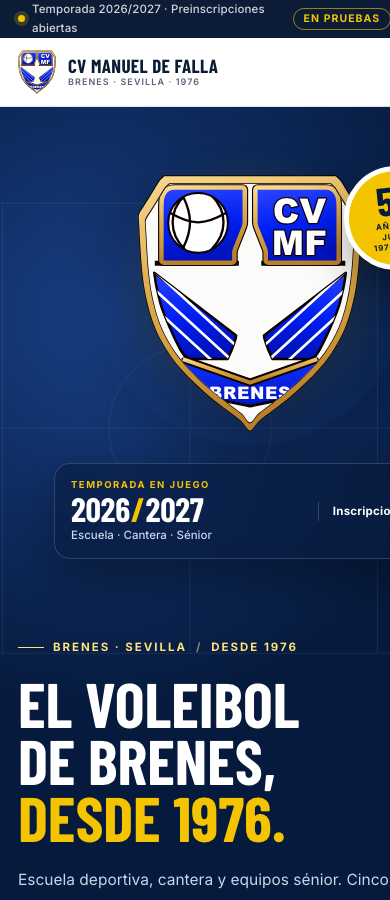
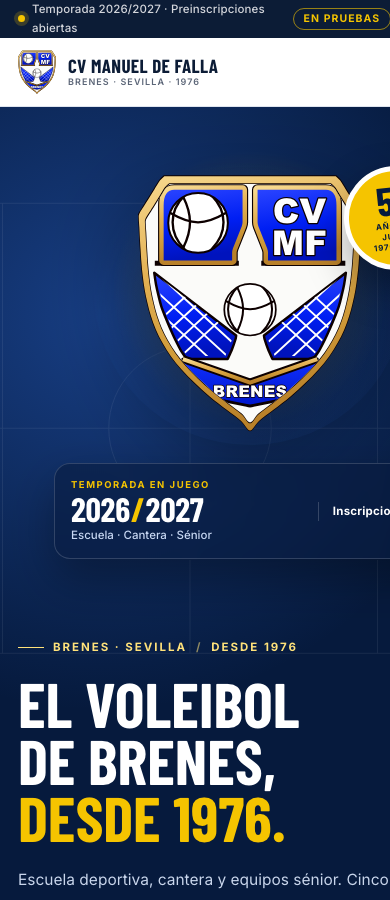
Escudo: balon de voleibol, red de malla y BRENES legible

Changed region(s): [[0.4, 0.3111, 0.8615, 0.4667], [0.0615, 0.0622, 0.1231, 0.0933]]

diff --git a/index.html b/index.html
@@ -85,6 +85,7 @@ window.setTimeout(function () {
     <clipPath id="crest-field"><use href="#crest-shield" transform="translate(100 116) scale(.931) translate(-100 -116)"/></clipPath>
     <clipPath id="crest-arm"><path d="M 14.5 89 C 14.75 90.67 15.38 95.67 16.00 99.00 C 16.62 102.33 17.40 105.67 18.20 109.00 C 19.00 112.33 19.73 115.67 20.80 119.00 C 21.87 122.33 23.27 125.67 24.60 129.00 C 25.93 132.33 27.33 135.67 28.80 139.00 C 30.27 142.33 31.77 145.67 33.40 149.00 C 35.03 152.33 36.90 156.17 38.60 159.00 C 40.30 161.83 42.77 164.83 43.60 166.00 L 80 166 C 80.67 164.50 82.87 159.83 84.00 157.00 C 85.13 154.17 86.20 151.00 86.80 149.00 C 87.40 147.00 87.47 145.67 87.60 145.00 Z"/></clipPath>
     <clipPath id="crest-ball"><circle cx="53.6" cy="44.5" r="26.6"/></clipPath>
+    <clipPath id="crest-net"><path d="M 14.5 89 C 14.75 90.67 15.38 95.67 16.00 99.00 C 16.62 102.33 17.40 105.67 18.20 109.00 C 19.00 112.33 19.73 115.67 20.80 119.00 C 21.87 122.33 23.27 125.67 24.60 129.00 C 25.93 132.33 27.33 135.67 28.80 139.00 C 30.27 142.33 31.77 145.67 33.40 149.00 C 35.03 152.33 36.90 156.17 38.60 159.00 C 40.30 161.83 42.77 164.83 43.60 166.00 L 80 166 C 80.67 164.50 82.87 159.83 84.00 157.00 C 85.13 154.17 86.20 151.00 86.80 149.00 C 87.40 147.00 87.47 145.67 87.60 145.00 Z" transform="translate(50 127) scale(.93) translate(-50 -127)"/></clipPath>
   </defs>
   <symbol id="club-crest" viewBox="0 0 200 232">
 <use href="#crest-shield" fill="#0d0000"/>
@@ -128,24 +129,43 @@ window.setTimeout(function () {
 
     <path id="crest-arm-path" d="M 14.5 89 C 14.75 90.67 15.38 95.67 16.00 99.00 C 16.62 102.33 17.40 105.67 18.20 109.00 C 19.00 112.33 19.73 115.67 20.80 119.00 C 21.87 122.33 23.27 125.67 24.60 129.00 C 25.93 132.33 27.33 135.67 28.80 139.00 C 30.27 142.33 31.77 145.67 33.40 149.00 C 35.03 152.33 36.90 156.17 38.60 159.00 C 40.30 161.83 42.77 164.83 43.60 166.00 L 80 166 C 80.67 164.50 82.87 159.83 84.00 157.00 C 85.13 154.17 86.20 151.00 86.80 149.00 C 87.40 147.00 87.47 145.67 87.60 145.00 Z" fill="url(#crest-blue)" stroke="#0d0000" stroke-width="2.2" stroke-linejoin="round"/>
     <use href="#crest-arm-path" transform="translate(200 0) scale(-1 1)"/>
-    <g clip-path="url(#crest-arm)" stroke="#ffffff" stroke-width="2.4" stroke-linecap="round">
+    <g clip-path="url(#crest-net)" fill="none" stroke="#ffffff" stroke-width="1.7" stroke-linecap="round">
         <path d="M -22.8 86 L 68.8 170"/>
         <path d="M -4.8 86 L 86.8 170"/>
         <path d="M 13.2 86 L 104.8 170"/>
         <path d="M 31.2 86 L 122.8 170"/>
+        <path d="M 68.8 86 L -22.8 170"/>
+        <path d="M 86.8 86 L -4.8 170"/>
+        <path d="M 104.8 86 L 13.2 170"/>
+        <path d="M 122.8 86 L 31.2 170"/>
     </g>
-    <g clip-path="url(#crest-arm)" transform="translate(200 0) scale(-1 1)" stroke="#ffffff" stroke-width="2.4" stroke-linecap="round">
+    <g clip-path="url(#crest-net)" transform="translate(200 0) scale(-1 1)" fill="none" stroke="#ffffff" stroke-width="1.7" stroke-linecap="round">
         <path d="M -22.8 86 L 68.8 170"/>
         <path d="M -4.8 86 L 86.8 170"/>
         <path d="M 13.2 86 L 104.8 170"/>
         <path d="M 31.2 86 L 122.8 170"/>
+        <path d="M 68.8 86 L -22.8 170"/>
+        <path d="M 86.8 86 L -4.8 170"/>
+        <path d="M 104.8 86 L 13.2 170"/>
+        <path d="M 122.8 86 L 31.2 170"/>
+    </g>
+
+    <g transform="translate(53.65 83.52) scale(.8647)">
+      <circle cx="53.6" cy="44.5" r="26.6" fill="#fff" stroke="#0d0000" stroke-width="1.8"/>
+      <g clip-path="url(#crest-ball)" fill="none" stroke="#0d0000" stroke-width="2.1" stroke-linecap="round">
+        <path d="M 41.4 20.2 C 34.2 27.4 30.9 35.4 30.9 44 C 30.9 52.6 34.2 60.6 41.4 67.8"/>
+        <path d="M 65.8 20.2 C 73 27.4 76.3 35.4 76.3 44 C 76.3 52.6 73 60.6 65.8 67.8"/>
+        <path d="M 29.4 36 C 38.6 41.4 47 44 53.6 44 C 60.2 44 68.6 41.4 77.8 36"/>
+        <path d="M 40.4 66.6 C 44 59.4 46.4 51.6 46.4 44 C 46.4 36.4 44 28.6 40.4 21.4"/>
+      </g>
     </g>
 
     <path d="M 40 166 L 100 187 L 160 166 L 160 192 Q 160 195.5 156.6 196.6 L 103 207.4 Q 100 208.4 97 207.4 L 43.4 196.6 Q 40 195.5 40 192 Z" fill="url(#crest-ribbon)" stroke="#0d0000" stroke-width="2.5" stroke-linejoin="round"/>
     <path d="M 40 166 L 100 187 L 160 166" fill="none" stroke="#0d0000" stroke-width="7" stroke-linecap="butt" stroke-linejoin="miter"/>
     <path d="M 40 166 L 100 187 L 160 166" fill="none" stroke="url(#crest-gold)" stroke-width="3.6" stroke-linecap="butt" stroke-linejoin="miter"/>
-    <text x="100" y="201.4" text-anchor="middle" font-family="Arial Black, Arial, Helvetica, sans-serif"
-          font-weight="900" font-size="15.4" letter-spacing=".5" fill="#fff">BRENES</text>
+    <text x="100" y="199.6" text-anchor="middle" font-family="Arial Black, Arial, Helvetica, sans-serif"
+          font-weight="900" font-size="14.4" letter-spacing=".2" fill="#fff"
+          stroke="#0d0000" stroke-width="1.3" paint-order="stroke" stroke-linejoin="round">BRENES</text>
   </g>
   </symbol>
 </svg>

diff --git a/ABRIR-WEB-CLUB-VOLEIBOL.html b/ABRIR-WEB-CLUB-VOLEIBOL.html
@@ -2821,6 +2821,7 @@ h2 {
     <clipPath id="crest-field"><use href="#crest-shield" transform="translate(100 116) scale(.931) translate(-100 -116)"/></clipPath>
     <clipPath id="crest-arm"><path d="M 14.5 89 C 14.75 90.67 15.38 95.67 16.00 99.00 C 16.62 102.33 17.40 105.67 18.20 109.00 C 19.00 112.33 19.73 115.67 20.80 119.00 C 21.87 122.33 23.27 125.67 24.60 129.00 C 25.93 132.33 27.33 135.67 28.80 139.00 C 30.27 142.33 31.77 145.67 33.40 149.00 C 35.03 152.33 36.90 156.17 38.60 159.00 C 40.30 161.83 42.77 164.83 43.60 166.00 L 80 166 C 80.67 164.50 82.87 159.83 84.00 157.00 C 85.13 154.17 86.20 151.00 86.80 149.00 C 87.40 147.00 87.47 145.67 87.60 145.00 Z"/></clipPath>
     <clipPath id="crest-ball"><circle cx="53.6" cy="44.5" r="26.6"/></clipPath>
+    <clipPath id="crest-net"><path d="M 14.5 89 C 14.75 90.67 15.38 95.67 16.00 99.00 C 16.62 102.33 17.40 105.67 18.20 109.00 C 19.00 112.33 19.73 115.67 20.80 119.00 C 21.87 122.33 23.27 125.67 24.60 129.00 C 25.93 132.33 27.33 135.67 28.80 139.00 C 30.27 142.33 31.77 145.67 33.40 149.00 C 35.03 152.33 36.90 156.17 38.60 159.00 C 40.30 161.83 42.77 164.83 43.60 166.00 L 80 166 C 80.67 164.50 82.87 159.83 84.00 157.00 C 85.13 154.17 86.20 151.00 86.80 149.00 C 87.40 147.00 87.47 145.67 87.60 145.00 Z" transform="translate(50 127) scale(.93) translate(-50 -127)"/></clipPath>
   </defs>
   <symbol id="club-crest" viewBox="0 0 200 232">
 <use href="#crest-shield" fill="#0d0000"/>
@@ -2864,24 +2865,43 @@ h2 {
 
     <path id="crest-arm-path" d="M 14.5 89 C 14.75 90.67 15.38 95.67 16.00 99.00 C 16.62 102.33 17.40 105.67 18.20 109.00 C 19.00 112.33 19.73 115.67 20.80 119.00 C 21.87 122.33 23.27 125.67 24.60 129.00 C 25.93 132.33 27.33 135.67 28.80 139.00 C 30.27 142.33 31.77 145.67 33.40 149.00 C 35.03 152.33 36.90 156.17 38.60 159.00 C 40.30 161.83 42.77 164.83 43.60 166.00 L 80 166 C 80.67 164.50 82.87 159.83 84.00 157.00 C 85.13 154.17 86.20 151.00 86.80 149.00 C 87.40 147.00 87.47 145.67 87.60 145.00 Z" fill="url(#crest-blue)" stroke="#0d0000" stroke-width="2.2" stroke-linejoin="round"/>
     <use href="#crest-arm-path" transform="translate(200 0) scale(-1 1)"/>
-    <g clip-path="url(#crest-arm)" stroke="#ffffff" stroke-width="2.4" stroke-linecap="round">
+    <g clip-path="url(#crest-net)" fill="none" stroke="#ffffff" stroke-width="1.7" stroke-linecap="round">
         <path d="M -22.8 86 L 68.8 170"/>
         <path d="M -4.8 86 L 86.8 170"/>
         <path d="M 13.2 86 L 104.8 170"/>
         <path d="M 31.2 86 L 122.8 170"/>
+        <path d="M 68.8 86 L -22.8 170"/>
+        <path d="M 86.8 86 L -4.8 170"/>
+        <path d="M 104.8 86 L 13.2 170"/>
+        <path d="M 122.8 86 L 31.2 170"/>
     </g>
-    <g clip-path="url(#crest-arm)" transform="translate(200 0) scale(-1 1)" stroke="#ffffff" stroke-width="2.4" stroke-linecap="round">
+    <g clip-path="url(#crest-net)" transform="translate(200 0) scale(-1 1)" fill="none" stroke="#ffffff" stroke-width="1.7" stroke-linecap="round">
         <path d="M -22.8 86 L 68.8 170"/>
         <path d="M -4.8 86 L 86.8 170"/>
         <path d="M 13.2 86 L 104.8 170"/>
         <path d="M 31.2 86 L 122.8 170"/>
+        <path d="M 68.8 86 L -22.8 170"/>
+        <path d="M 86.8 86 L -4.8 170"/>
+        <path d="M 104.8 86 L 13.2 170"/>
+        <path d="M 122.8 86 L 31.2 170"/>
+    </g>
+
+    <g transform="translate(53.65 83.52) scale(.8647)">
+      <circle cx="53.6" cy="44.5" r="26.6" fill="#fff" stroke="#0d0000" stroke-width="1.8"/>
+      <g clip-path="url(#crest-ball)" fill="none" stroke="#0d0000" stroke-width="2.1" stroke-linecap="round">
+        <path d="M 41.4 20.2 C 34.2 27.4 30.9 35.4 30.9 44 C 30.9 52.6 34.2 60.6 41.4 67.8"/>
+        <path d="M 65.8 20.2 C 73 27.4 76.3 35.4 76.3 44 C 76.3 52.6 73 60.6 65.8 67.8"/>
+        <path d="M 29.4 36 C 38.6 41.4 47 44 53.6 44 C 60.2 44 68.6 41.4 77.8 36"/>
+        <path d="M 40.4 66.6 C 44 59.4 46.4 51.6 46.4 44 C 46.4 36.4 44 28.6 40.4 21.4"/>
+      </g>
     </g>
 
     <path d="M 40 166 L 100 187 L 160 166 L 160 192 Q 160 195.5 156.6 196.6 L 103 207.4 Q 100 208.4 97 207.4 L 43.4 196.6 Q 40 195.5 40 192 Z" fill="url(#crest-ribbon)" stroke="#0d0000" stroke-width="2.5" stroke-linejoin="round"/>
     <path d="M 40 166 L 100 187 L 160 166" fill="none" stroke="#0d0000" stroke-width="7" stroke-linecap="butt" stroke-linejoin="miter"/>
     <path d="M 40 166 L 100 187 L 160 166" fill="none" stroke="url(#crest-gold)" stroke-width="3.6" stroke-linecap="butt" stroke-linejoin="miter"/>
-    <text x="100" y="201.4" text-anchor="middle" font-family="Arial Black, Arial, Helvetica, sans-serif"
-          font-weight="900" font-size="15.4" letter-spacing=".5" fill="#fff">BRENES</text>
+    <text x="100" y="199.6" text-anchor="middle" font-family="Arial Black, Arial, Helvetica, sans-serif"
+          font-weight="900" font-size="14.4" letter-spacing=".2" fill="#fff"
+          stroke="#0d0000" stroke-width="1.3" paint-order="stroke" stroke-linejoin="round">BRENES</text>
   </g>
   </symbol>
 </svg>
